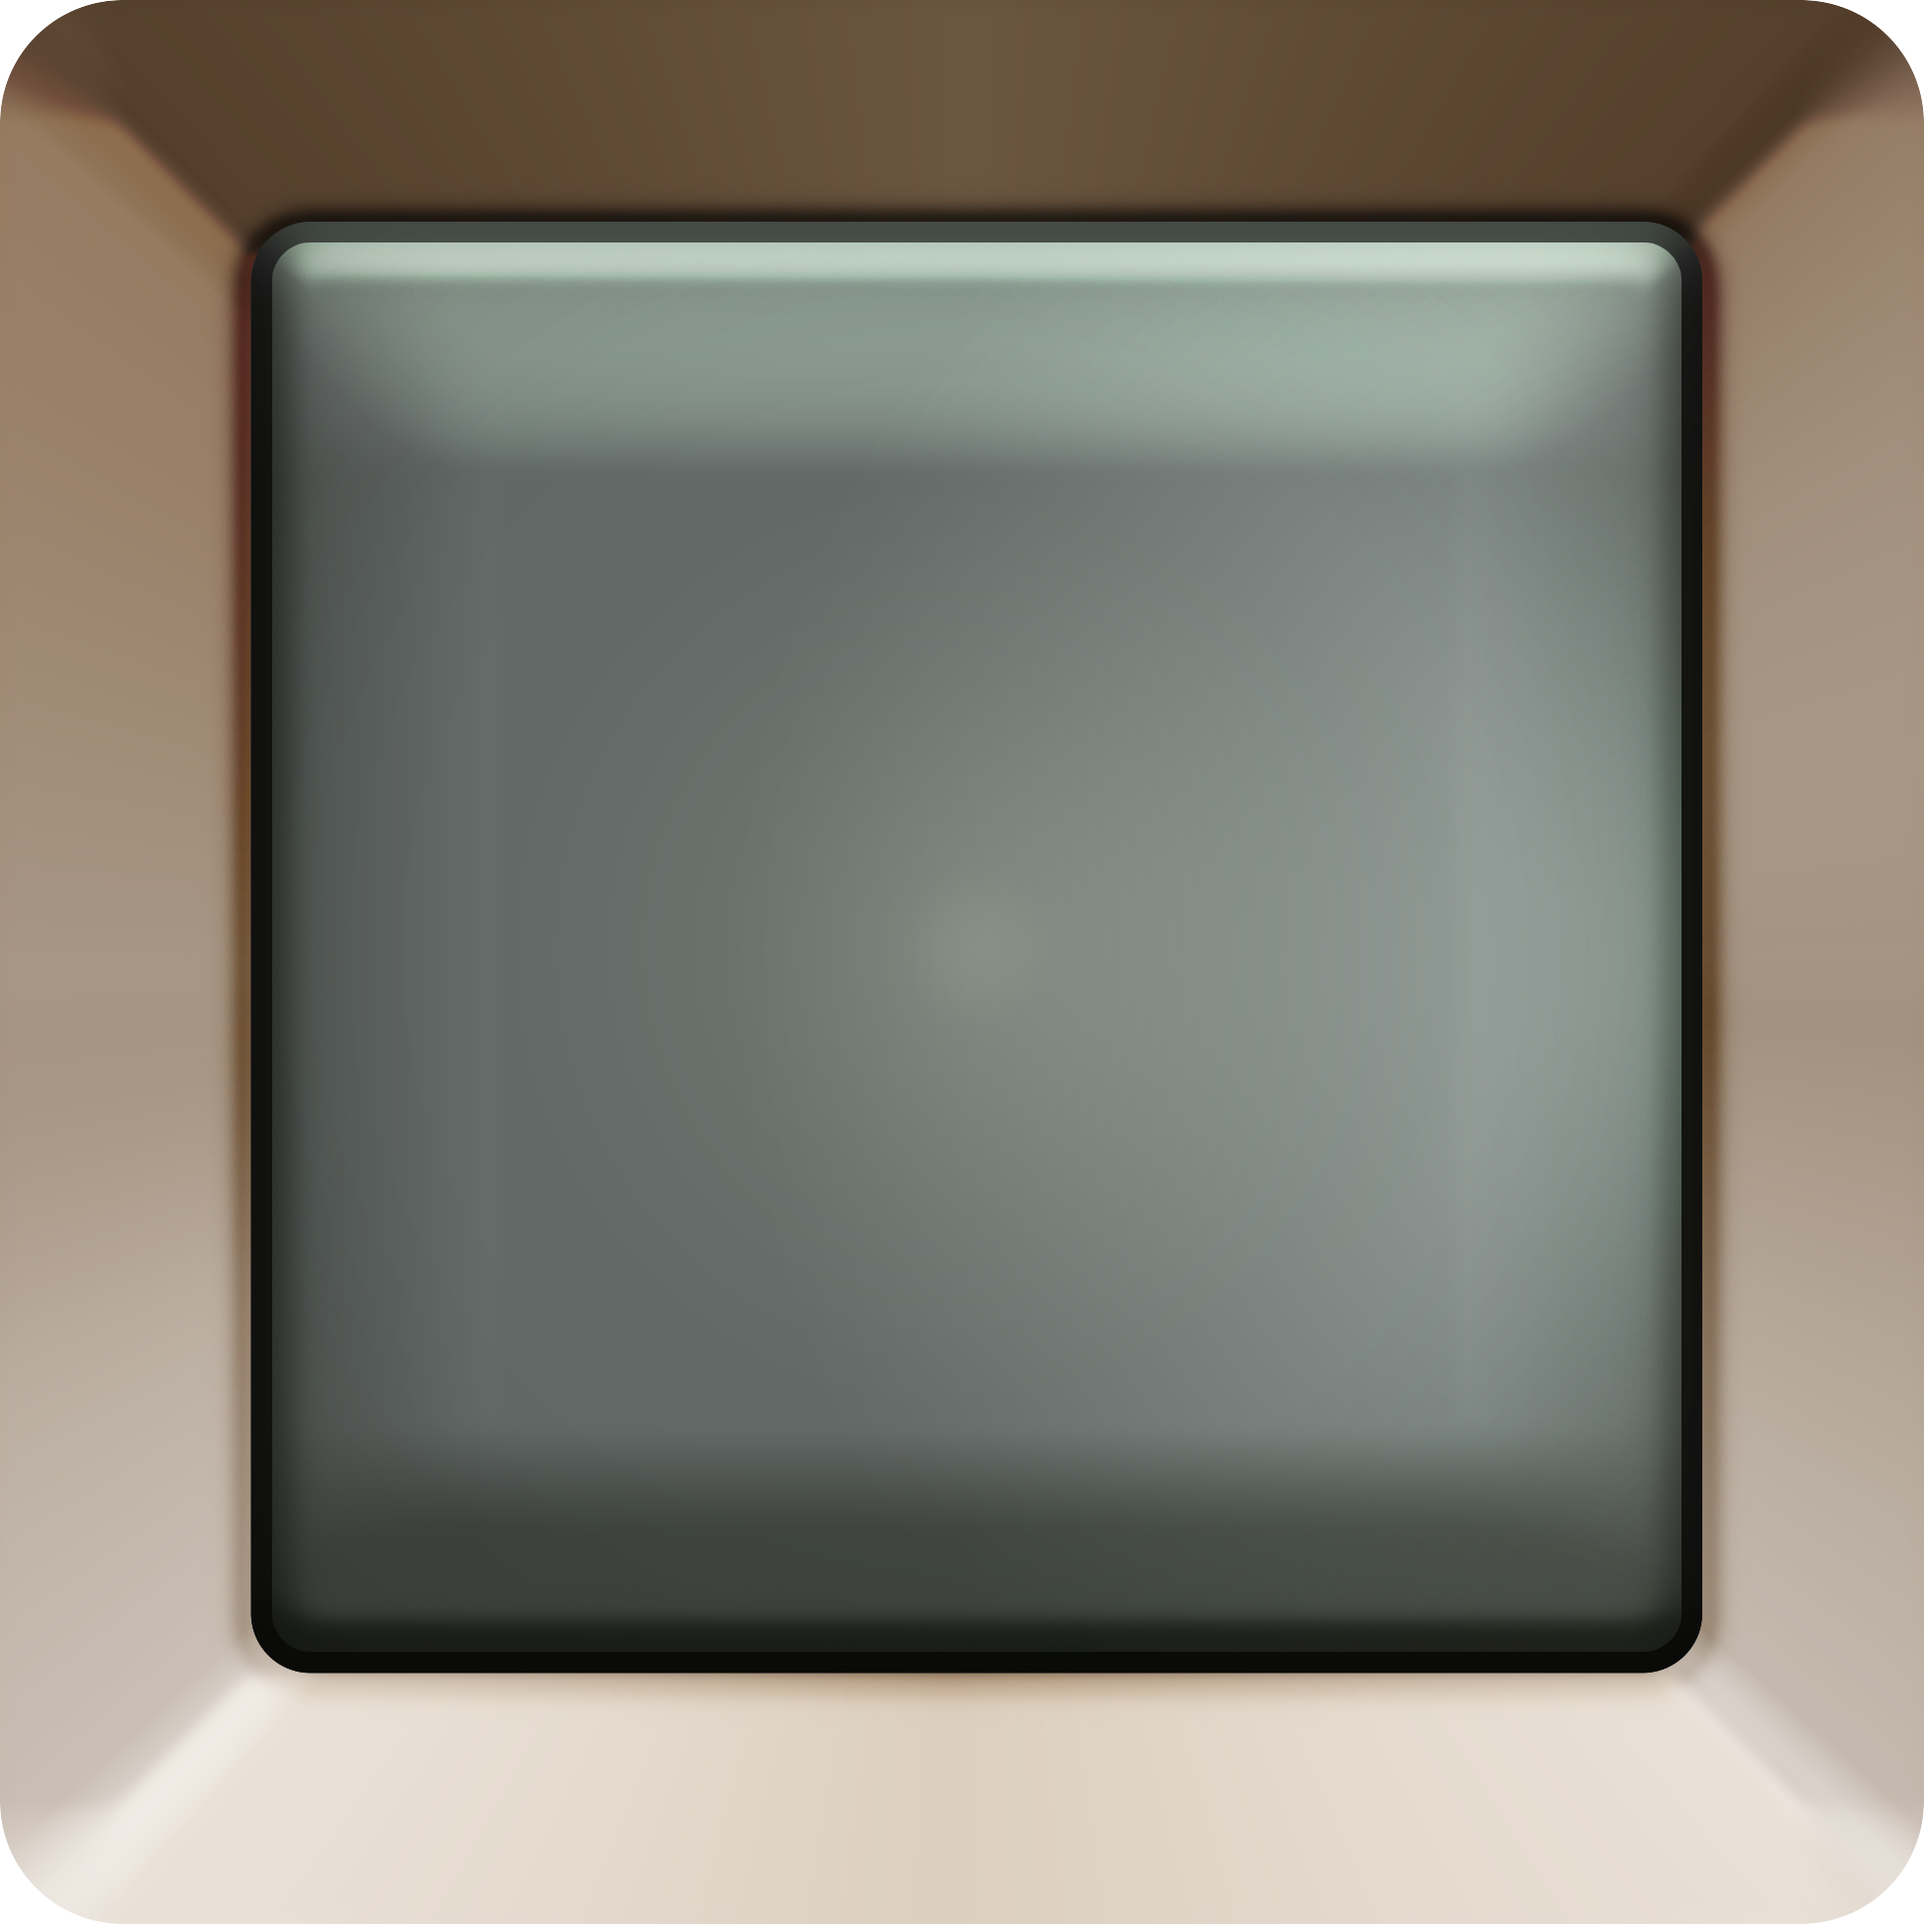
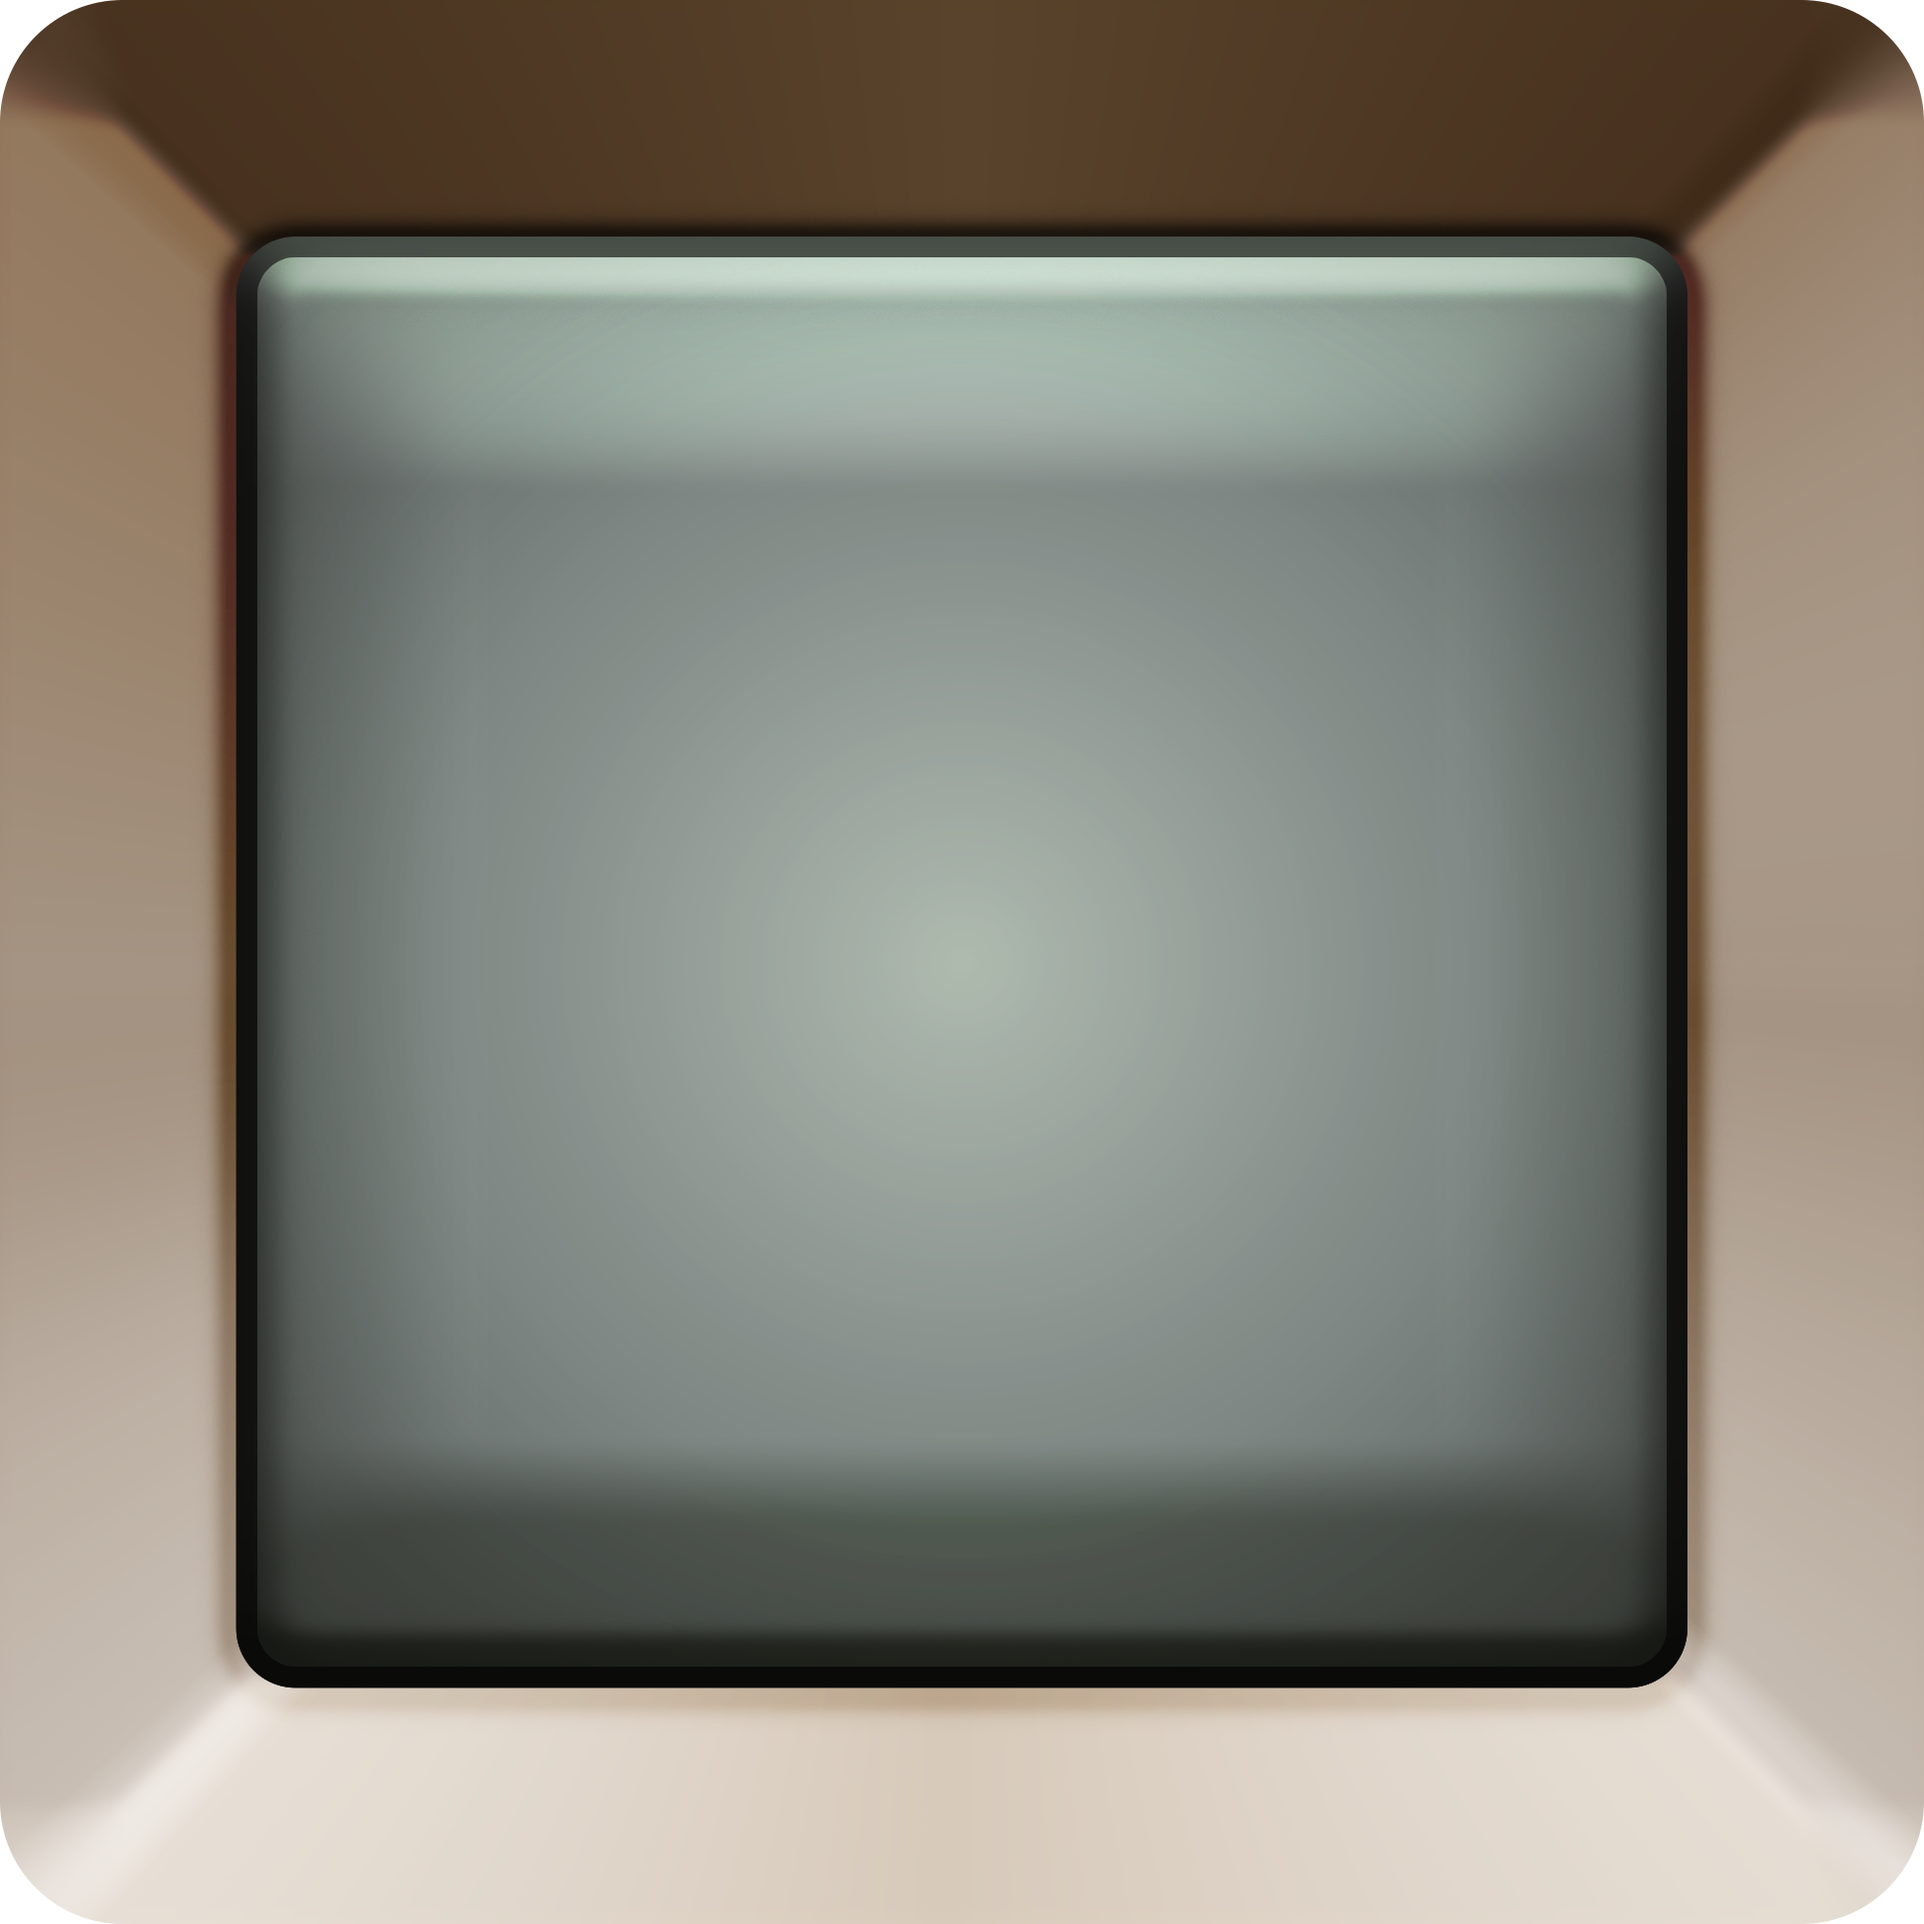
Small UI fixes

diff --git a/public/style.css b/public/style.css
@@ -6,8 +6,8 @@
     --screen-y:var(--screen-x);
     --screen-size:calc(100vh - (var(--screen-x) * 2));
     --border-width:1vh;
-    --border-radius: calc(var(--border-width) * 3);
-    --screen-x-netto: calc(9vh + var(--border-width));
+    --border-radius: calc(var(--border-width) * 2.9);
+    --screen-x-netto: calc(10vh + var(--border-width));
     --screen-y-netto:var(--screen-x-netto);
     --screen-size-netto:calc( var(--screen-size) - (var(--screen-x-netto) * 2));
 }
@@ -18,8 +18,12 @@ body {
     width: 100%;
     height: 100%;
 }
+
+
 body, textarea, input, button,
+.bpMessageBlocksDropdownContentContainer > div,
     .bpMessageContainer[data-direction=incoming]:last-of-type {
+      
     font-family: "bg",Helvetica,Arial!important;
     color:white;
   }
@@ -309,8 +313,7 @@ button.big-icon:active {
 
 #screen:before,
 #screen:after,
-#screen *:before,
-#screen *:after,
+
 .video-player:before,
 .video-player:after,
 .video-player *:before,
@@ -340,7 +343,7 @@ button.big-icon:active {
   position: absolute;
   left: var(--screen-x-netto);
   top: var(--screen-y-netto);
-  border-radius: 3vh;
+  border-radius: var(--border-radius);
   pointer-events: none;
 }
 
@@ -370,6 +373,11 @@ button.big-icon:active {
   top:var(--border-width);
   width:calc(100% - var(--border-width) * 2);
   height:calc(100% - var(--border-width) * 2);
+  transition: opacity 0.2s ease-in;
+}
+
+.off #shine:before {
+  opacity:0;
 }
 
 #shine:after {
@@ -382,10 +390,15 @@ button.big-icon:active {
 }
 
  .video-player {
-  border: #4d3535 var(--border-width) solid;
+  border: solid var(--border-width) transparent;
   background: #432c2f;
   /* mix-blend-mode: hard-light; */
   border-radius: var(--border-radius);
+  transition: opacity 0.1s ease;
+}
+
+.off .video-player{
+    opacity: 0;
 }
 
 .video-player video {
@@ -393,23 +406,30 @@ button.big-icon:active {
   object-fit: cover;
   width:100%;
   height:100%;
-  border-radius: 2vh;
+  border-radius: var(--border-radius);
   filter: brightness(1.1) contrast(1);
 }
 
 #screen #subtitles{
-   color: white;
+   color: #f5f3f3;
    position:absolute;
    display: flex;
-   /* left:0; */
-   justify-content: center;
    align-items: flex-end;
-   font-size: 3vh;
-   padding: 5vh;
+   font-size: 2.5vh;
+   padding: 6vh;
    text-shadow:var(--outline-width) var(--outline-width) 0 black, var(--outline-width-neg) var(--outline-width-neg) 0 black, var(--outline-width) var(--outline-width-neg) 0 black, var(--outline-width-neg) var(--outline-width) 0 black;
    font-weight: bold;
-   text-align: center;
+   text-align: left;
    line-height: 1.3;
+   transition: 0.2s opacity;
+   flex-direction: row;
+   gap:1vh;
+   mix-blend-mode: hard-light;
+}
+
+#screen #subtitles.outgoing {
+  justify-content: flex-end;
+  color: var(--color-brand);
 }
 
 body:not(.subtitles) #screen #subtitles{
@@ -496,6 +516,7 @@ body:not(.subtitles) #screen #subtitles{
   aspect-ratio: 16/9;
   top: 0;
   min-height: 100vh;
+  left: 0;
 }
 
 
@@ -506,6 +527,7 @@ body:not(.subtitles) #screen #subtitles{
   padding-left: calc(var(--screen-size) + var(--screen-x) + 2vw);
   width: 100vw;
   height: 100vh;
+  position: relative;
 }
 
 
@@ -521,7 +543,7 @@ body:not(.subtitles) #screen #subtitles{
 }
 
 .bpMessageContainer[data-direction=incoming]:has(.bpMessageBlocksRow):last-of-type,
-.bpMessageContainer[data-direction=incoming]:has(.bpMessageBlocksDropdownButtonContainer):last-of-type {background: #432c2f;color:var(--color-brand);font-weight: normal;line-height:1.3;aspect-ratio:1;padding: 6vh;display: flex;justify-content: center;flex-direction: column;align-content: center;mix-blend-mode: normal;border-radius: 2vh;position: fixed;left: calc(var(--screen-x) + var(--screen-x-netto));top: calc(var(--screen-y) + var(--screen-y-netto));width: var(--screen-size-netto);}
+.bpMessageContainer[data-direction=incoming]:has(.bpMessageBlocksDropdownButtonContainer):last-of-type {background: #432c2f;color:var(--color-brand);font-weight: normal;line-height:1.3;aspect-ratio:1;padding: 6vh;display: flex;justify-content: center;flex-direction: column;align-content: center;mix-blend-mode: normal;border-radius: 2vh;position: fixed;left: calc(var(--screen-x) + var(--screen-x-netto));top: calc(var(--screen-y) + var(--screen-y-netto));width: var(--screen-size-netto);font-size: 3vh;line-height: 1.5;}
 .bpMessageContainer[data-direction=incoming]:has(.bpMessageBlocksRow):last-of-type:before,
 .bpMessageContainer[data-direction=incoming]:has(.bpMessageBlocksRow):last-of-type:after,
 .bpMessageContainer[data-direction=incoming]:has(.bpMessageBlocksDropdownButtonContainer):last-of-type:before,
@@ -549,27 +571,84 @@ margin-top:4vh;
 gap:2vh;
 }
 
-
+.bpMessageBlocksDropdownContentContainer > div,
 .bpMessageContainer[data-direction=incoming]:has(.bpMessageBlocksRow):last-of-type button {
-width: auto;
-padding: 3rem;
-background-color: transparent;
-color:var(--color-brand);
-outline:0.3vh solid var(--color-brand);
-text-transform:uppercase;
-font-weight:bold;
-font-size:2vh;
-line-height:1;
-flex-grow: 1;
-max-width: 46%;
+  width: auto;
+  padding: 3rem;
+  background-color: transparent;
+  color:var(--color-brand);
+  border: 0.3vh solid var(--color-brand);
+  text-transform:uppercase;
+  font-weight:bold;
+  font-size:2vh;
+  line-height:1;
+  flex-grow: 1;
+  max-width: 46%;
+  border-radius: 1vh;
+  text-align:center;
 }
 
+.bpMessageBlocksDropdownContentContainer > div:hover,
 .bpMessageContainer[data-direction=incoming]:has(.bpMessageBlocksRow):last-of-type button:hover {
 background-color: #ffbd0070;
 color:black;
 
 
 }
+
+/*** UI SCREEN ***/
+.bpMessageContainer[data-direction=incoming]:last-of-type .bpMessageBlocksBubble {
+    width:100%;
+    background: none!important;
+    max-width: none;
+}
+
+.bpMessageContainer[data-direction=incoming]:last-of-type .bpMessageBlocksColumn {
+    gap:2vh;
+    display: flex;
+    align-items: center;
+    justify-content: center;
+    align-content: center;
+}
+
+
+.bpMessageContainer[data-direction=incoming]:last-of-type .bpMessageAvatarContainer {
+    display: none!important;
+}
+
+.bpMessageBlocksDropdownButtonContainer {
+    max-width: none!important;
+    width: 100%;
+    background-color: var(--color-brand)!important;
+    color: black;
+    font-weight: bold;
+    border: 0!important;
+
+}
+
+
+.bpMessageBlocksDropdownContentContainer {
+    display:flex;
+    flex-direction: row;
+    flex-wrap: wrap;
+    gap: 2rem;
+    background-color: orange!important;
+    width:30vw;
+    padding: 1em!important;
+    justify-content: space-between;
+    align-content: flex-start;
+}
+
+.bpMessageBlocksDropdownContentContainer {
+    background-color:transparent!important;
+    border:0!important;
+    mix-blend-mode: plus-lighter;
+    opacity: 0.8;
+}
+
+
+
+
 
 /***KEYBOARD***/
 
@@ -743,6 +822,7 @@ color:black;
   }
 
 /****DEBUG****/
+#toggle-screen,
 #toggle-debug {
   position:fixed;
   right:0;
@@ -750,9 +830,13 @@ color:black;
   padding: 1vh!important;
 }
 
+#toggle-screen {
+  right:23vh;
+}
+
 
 body:not(.do-debug) .debug {
     display: none;
 }
 
-body:not(.do-debug) .output-display.debug {position:absolute;top: 0;width: 0vw;height: 0vh;left: 200vw;display: block;}
+body:not(.do-debug) .output-display.debug {position:absolute;top: 0;width: 0vw;height: 0vh;left: 0;display: block;color: white;}

diff --git a/src/ChatComponent.js b/src/ChatComponent.js
@@ -166,6 +166,11 @@ const ChatComponent = ({ botConfig, botClientId, localisation, voiceName, subscr
         jQuery("body").toggleClass("do-debug")
     };
 
+    const toggleScreen = (isOn) => {
+        console.log(`Screen is now ${isOn ? 'OFF' : 'ON'}`);
+        jQuery("body").toggleClass("off")
+    };
+
     const handleOnAction = () => {
         console.log('Action performed because the toggle is ON');
     };
@@ -267,6 +272,15 @@ const ChatComponent = ({ botConfig, botClientId, localisation, voiceName, subscr
                     
 
                 <ToggleButton 
+                        id="toggle-screen"
+                        onToggle={toggleScreen}
+                        onAction={handleOnAction}
+                        title="Screen off"
+                        
+                        indicator
+                    />
+
+                    <ToggleButton 
                         id="toggle-debug"
                         onToggle={toggleDebug}
                         onAction={handleOnAction}
@@ -326,7 +340,7 @@ const ChatComponent = ({ botConfig, botClientId, localisation, voiceName, subscr
                     </div>
 
                 <div className="col-6 output-display debug">
-                    <code id="speechOutput">{statusText}</code>
+                    <code id="speechOutput" className='debug'>{statusText}</code>
                     <WebchatProvider theme={theme} client={client} key={JSON.stringify(botConfig)} configuration={botConfig}>
                         <Container>
                             <Header />

diff --git a/public/debug.css b/public/debug.css
@@ -10,16 +10,6 @@
 }
 
 
-.bpMessageContainer[data-direction=incoming]:last-of-type .bpMessageBlocksBubble {
-    width:-webkit-fill-available;
-    background: none!important;
-    max-width: none;
-}
-
-.bpMessageContainer[data-direction=incoming]:last-of-type .bpMessageAvatarContainer {
-    display: none!important;
-}
-
 
 
 
@@ -52,20 +42,3 @@
 
 
 
-
-.bpMessageBlocksDropdownContentContainer {
-    display:flex;
-    flex-direction: row;
-    flex-wrap: wrap;
-    gap: 2rem;
-    background-color: orange!important;
-    width:30vw;
-    padding: 1em!important;
-    justify-content: space-between;
-    align-content: flex-start;
-}
-
-.bpMessageBlocksDropdownContentContainer > div {
-    background-color:white;
-    padding: 1.8rem;
-}

diff --git a/src/index.js b/src/index.js
@@ -57,14 +57,20 @@ function onKeyPress(button){
 jQuery("#toggle-subtitles").trigger("click")
 
 var strSubtitles;
-
+var directionSubtitles;
 setInterval(function() {
 
-  var newSubtitles = jQuery(".bpMessageBlocksTextText").last().text()
+  var lastItem = jQuery(".bpMessageBlocksTextText").last();
+
+  var newSubtitles = lastItem.text()
 
   if(newSubtitles != strSubtitles) {
+
+    directionSubtitles = lastItem.parent().parent().data("direction")
     
     strSubtitles= newSubtitles
+    jQuery('#subtitles').removeClass()
+    jQuery('#subtitles').addClass(directionSubtitles)
     jQuery('#subtitles').text(strSubtitles);
     
   }
